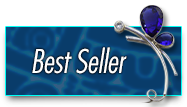
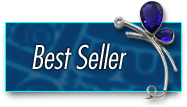
Nuevas imágenes
Mismo tamaño para el carrousel.

diff --git a/assets/styles.scss b/assets/styles.scss
@@ -131,7 +131,7 @@ em { font-style: italic; }
 .icon-cart { float: left; display: block; width: 20px; height: 16px; margin: 21px 10px 0 0; opacity: 0.6; filter: alpha(opacity = 60); }
 
 
-.icon-cart { background: url('//cdn.shopify.com/s/files/1/0605/4057/t/2/assets/icon-cart-small.png?659') no-repeat; background-position: 0 -16px; }
+.icon-cart { background: url('//cdn.shopify.com/s/files/1/0605/4057/t/2/assets/icon-cart-small.png?709') no-repeat; background-position: 0 -16px; }
 
 
 #social .google-plus, #product .tweet-btn, #product .pinterest, #product .facebook-like { display:block; float:left; margin-right:10px; }
@@ -735,7 +735,7 @@ filter:progid:DXImageTransform.Microsoft.gradient(startColorstr=#4C000000,endCol
 .flex-caption {width: 96%; padding: 2%; margin: 0; position: absolute; left: 0; bottom: 0; background: rgba(0,0,0,.8); color: #fff; text-shadow: 0 -1px 0 rgba(0,0,0,.8); font-size: 14px; line-height: 18px;}
 .flex-direction-nav { height: 0; display: none; }
 .flex-direction-nav li { margin-bottom: 0; }
-.flex-direction-nav li a {width: 50px; height: 50px; display: block; background: url('//cdn.shopify.com/s/files/1/0605/4057/t/2/assets/slider-arrows.png?659') no-repeat; position: absolute; top: 48%; cursor: pointer; text-indent: -999em;}
+.flex-direction-nav li a {width: 50px; height: 50px; display: block; background: url('//cdn.shopify.com/s/files/1/0605/4057/t/2/assets/slider-arrows.png?709') no-repeat; position: absolute; top: 48%; cursor: pointer; text-indent: -999em;}
 .flex-direction-nav li .disabled {opacity: .3; filter:alpha(opacity=30); cursor: default;}
 
 /* Dark Direction Nav */
